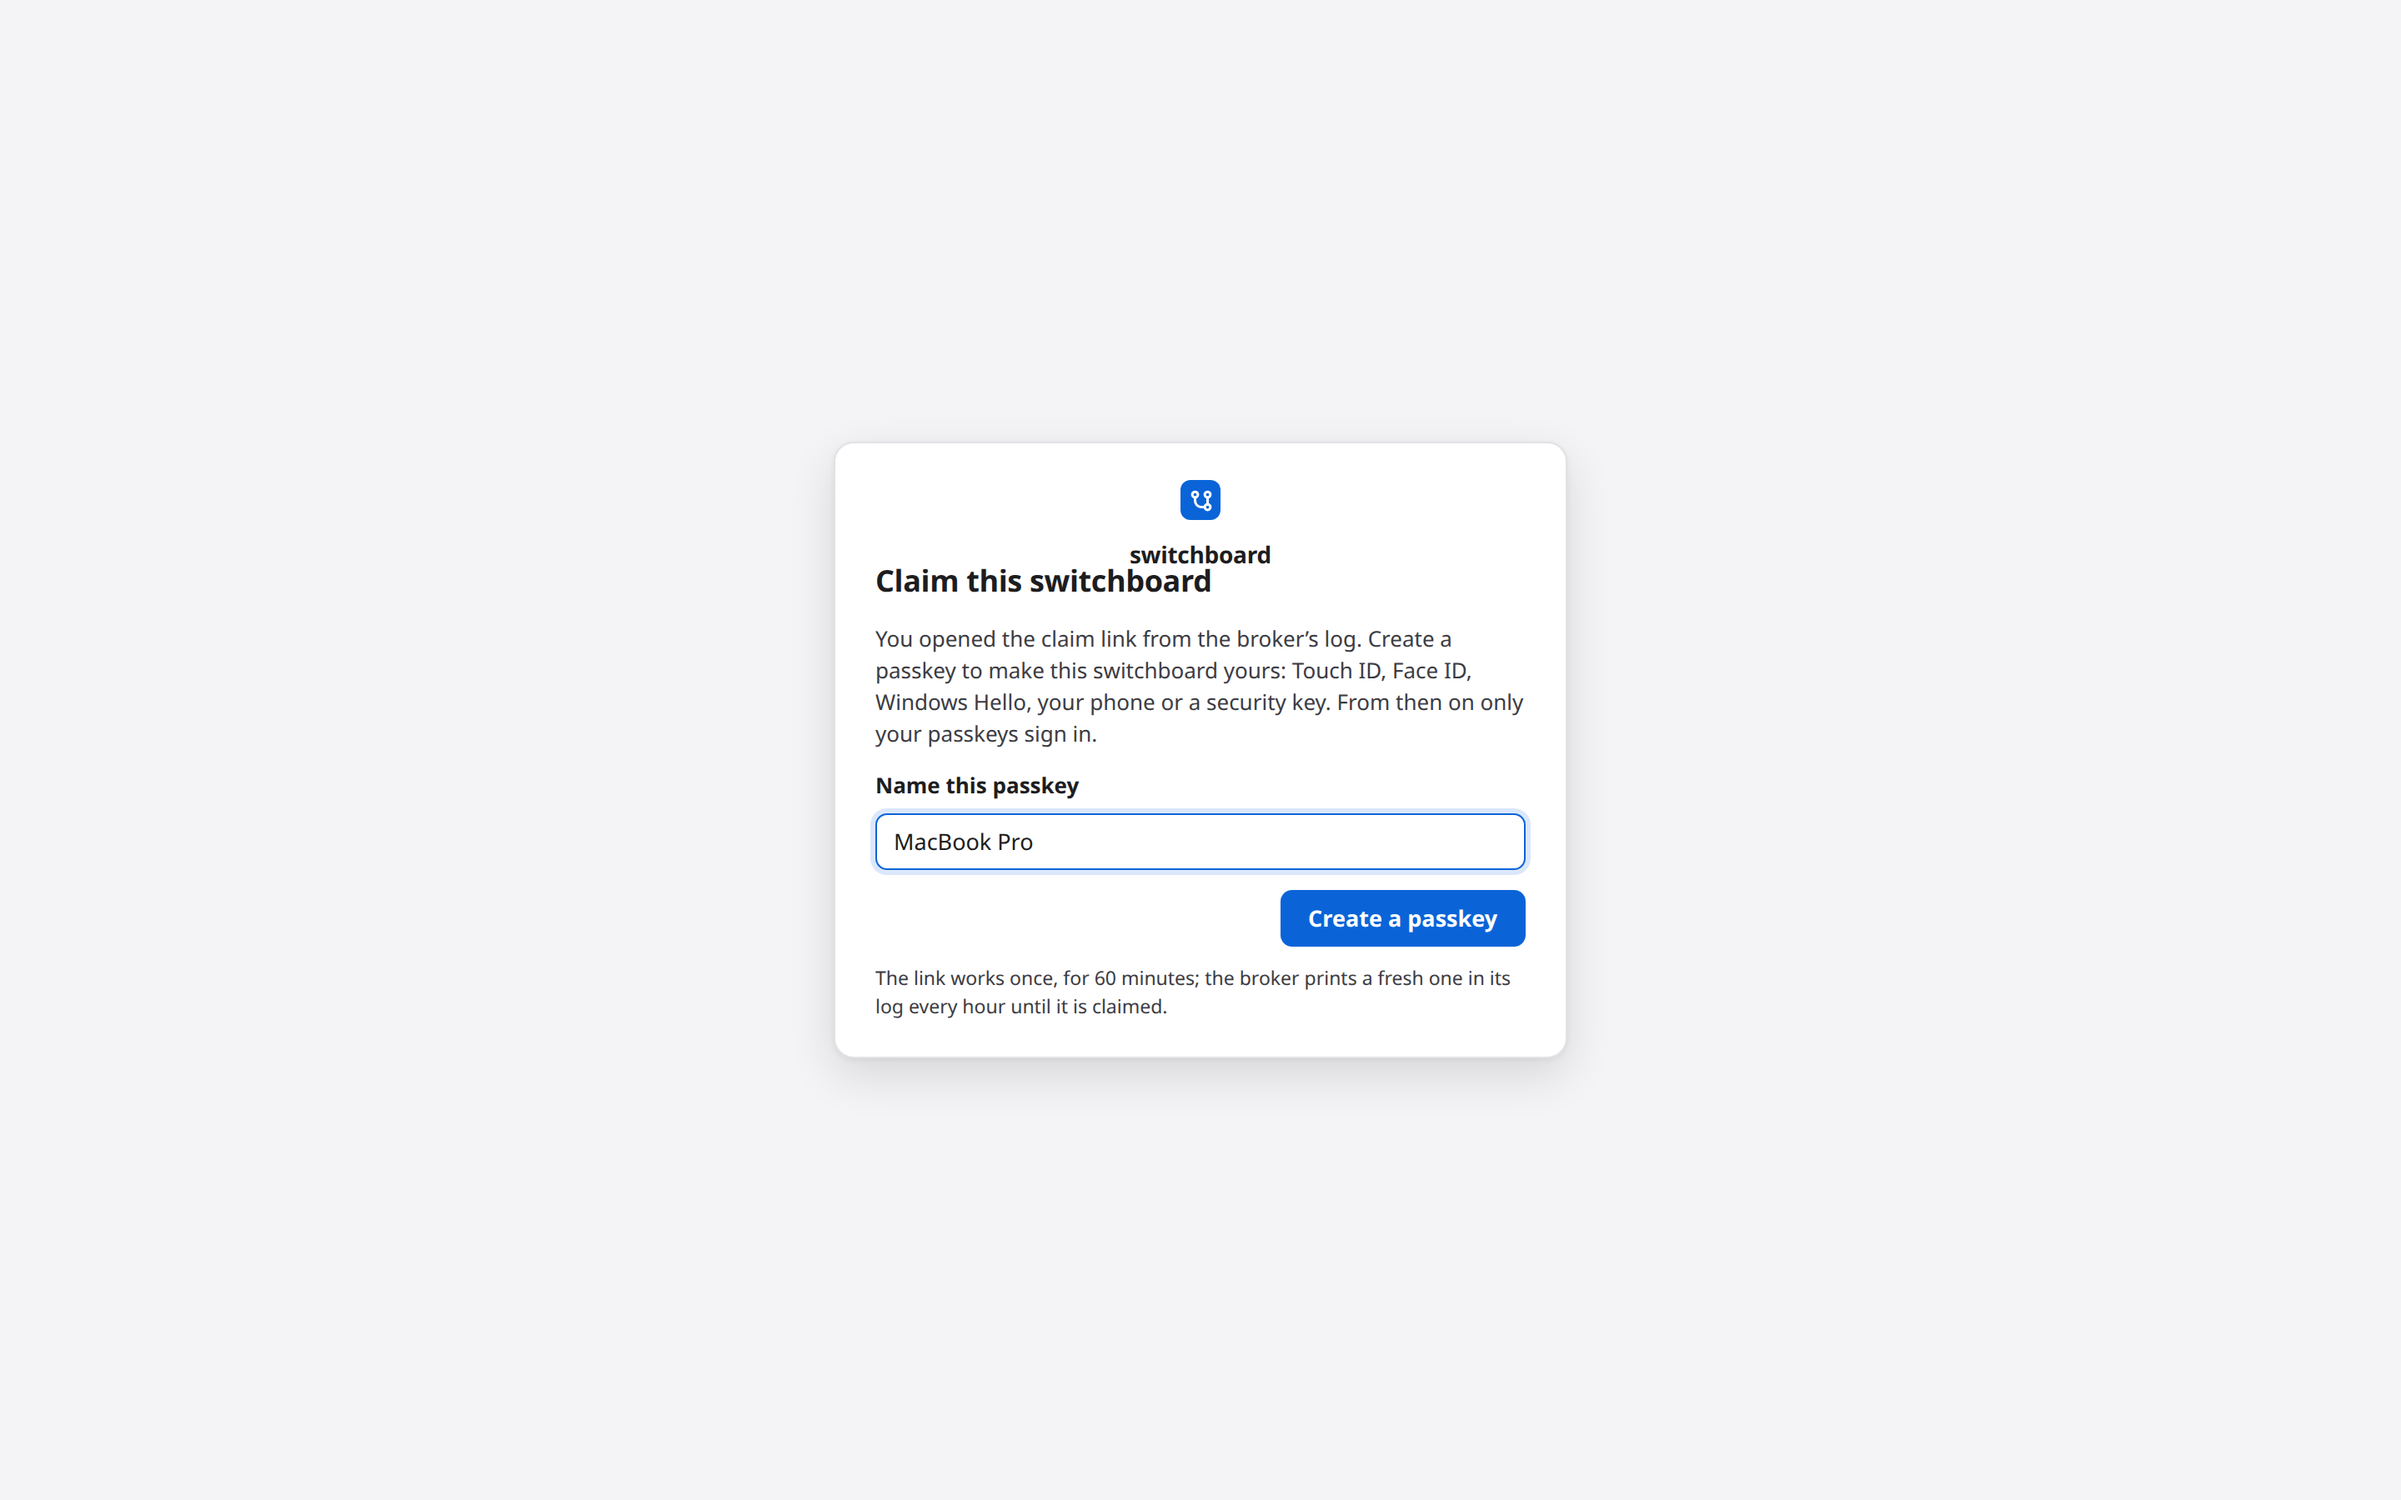
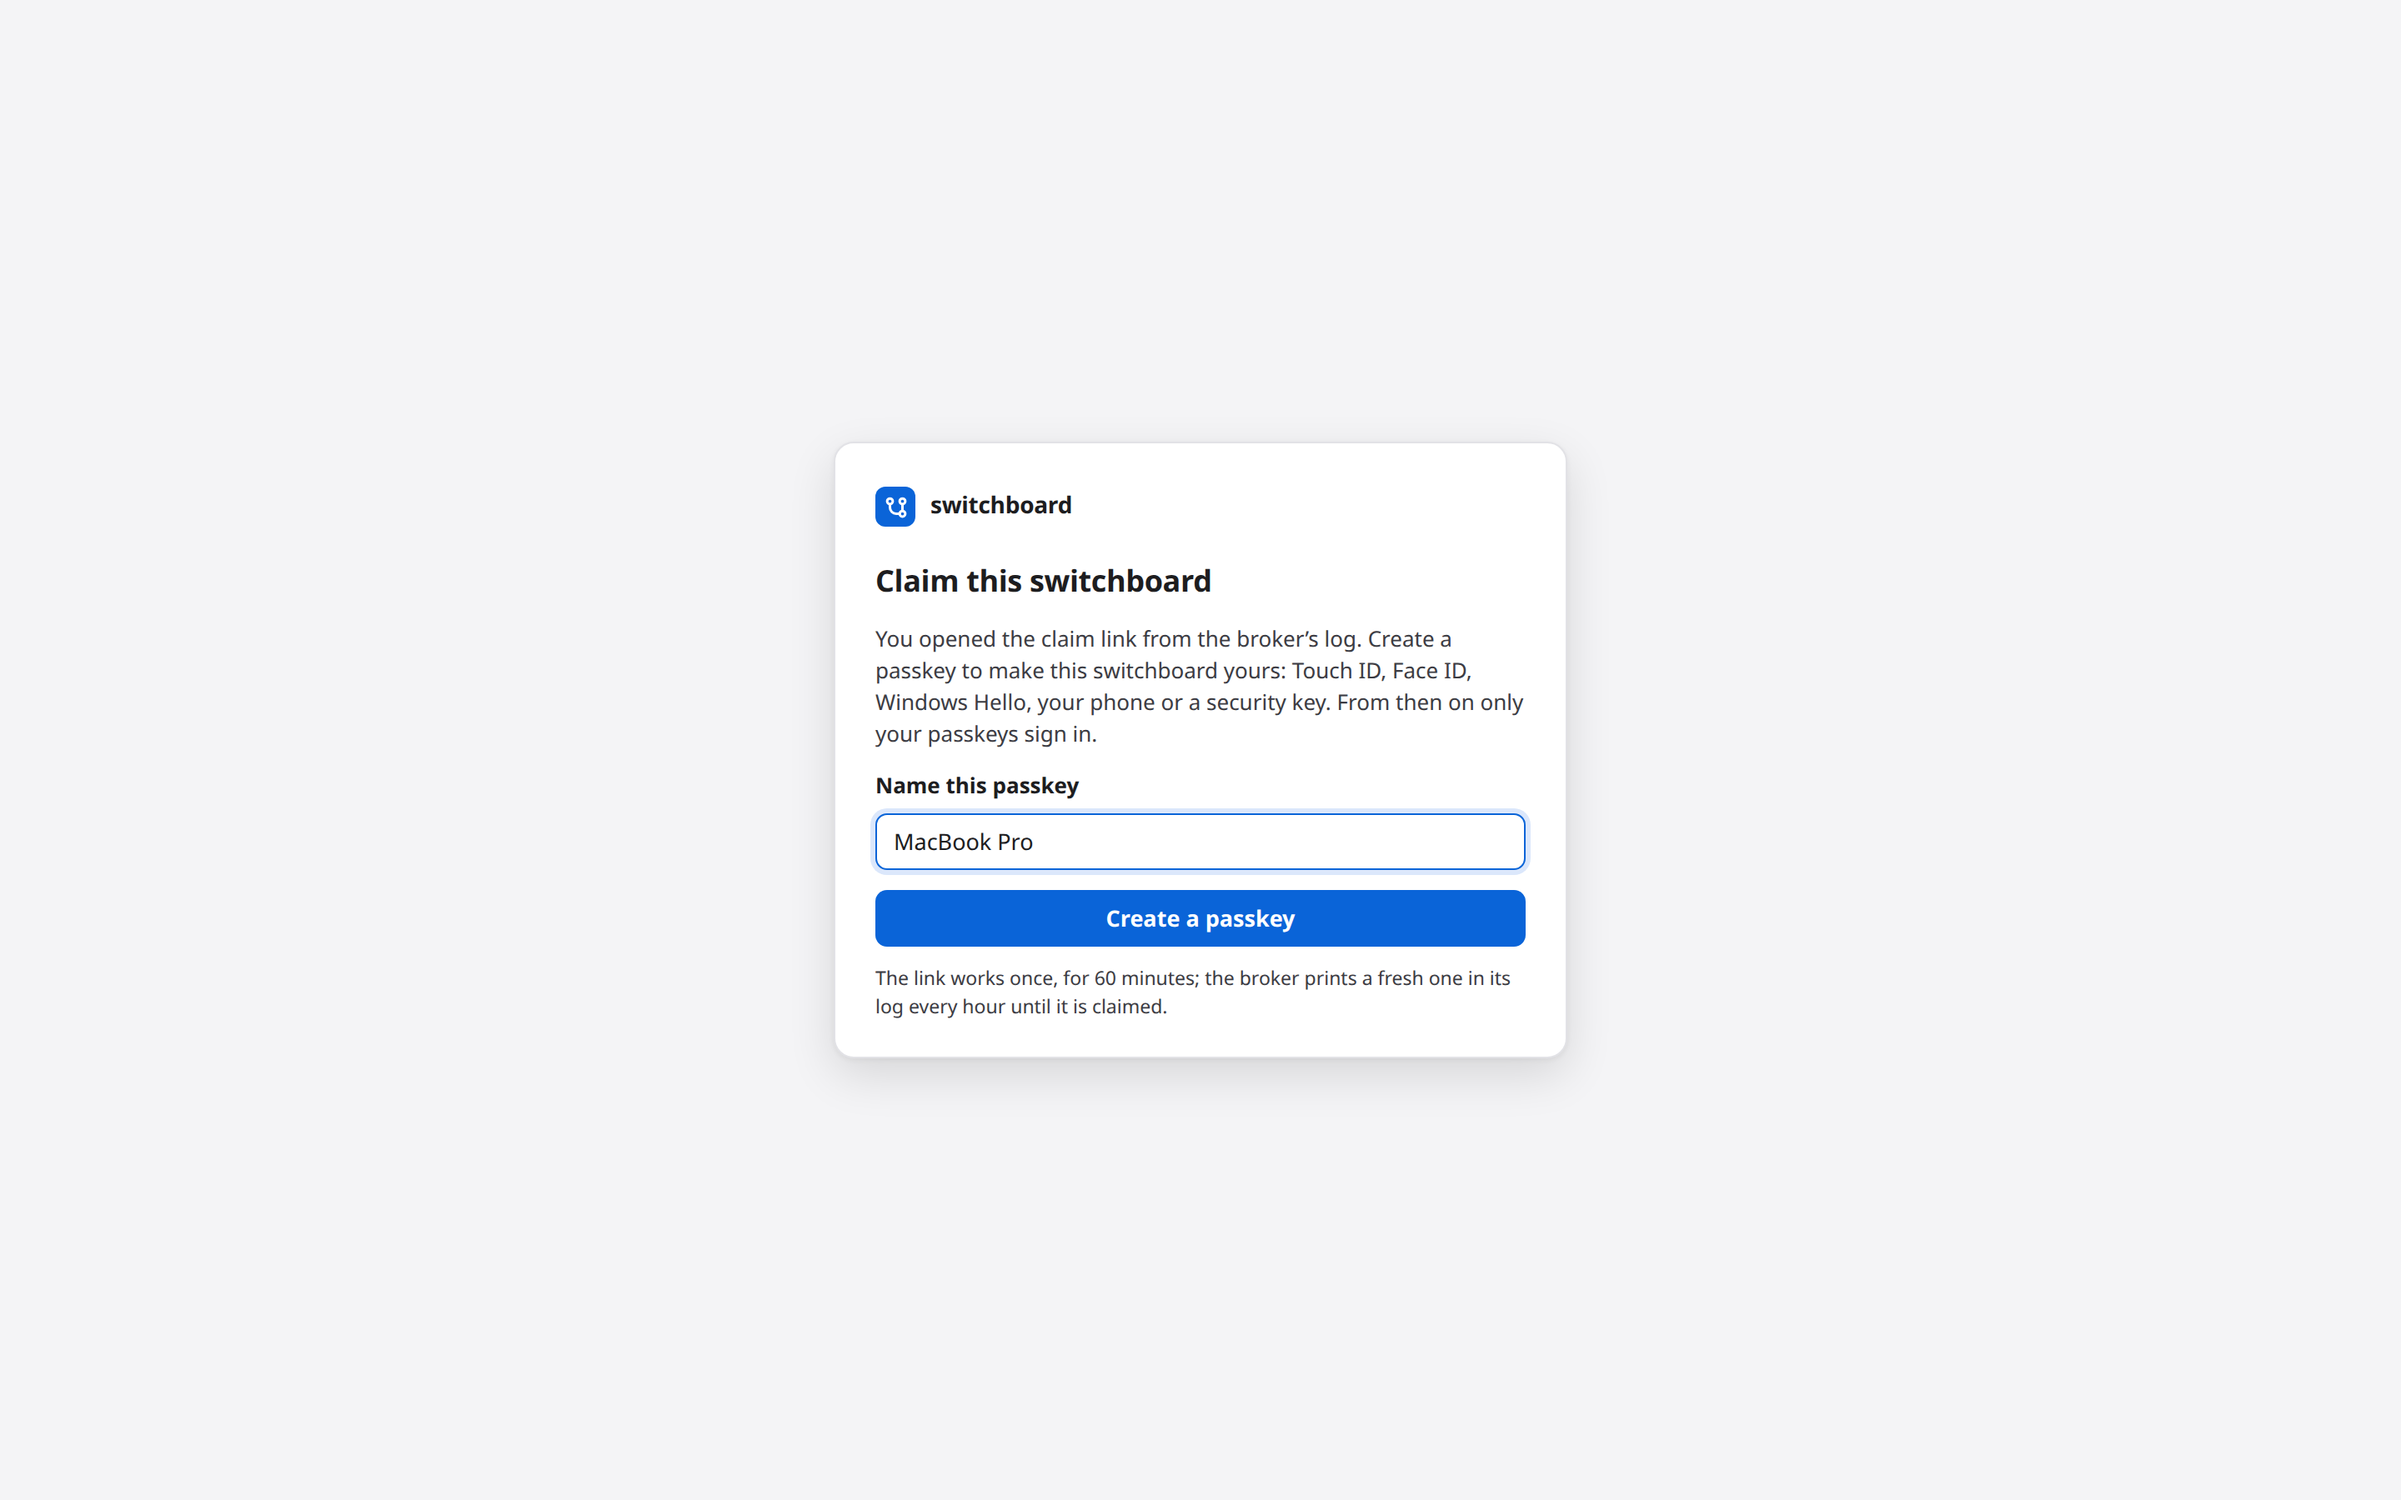
fix(web): the passkey pages' layout: the brand row, full-width actions, the Passkeys sheet as cards
The variants' spacing rule also matched the brand row and stacked the logo over the title;
it now has its own class. The claim and passkey sign-in actions span the card, the Passkeys
sheet uses cards like the Remote machines sheet with the name and Add on one row, and the e2e
test adds the security key with the phone put away (Chromium may pick either one).

Changed region(s): [[0.3438, 0.5911, 0.625, 0.6533], [0.4688, 0.3111, 0.5312, 0.3733], [0.3438, 0.3111, 0.4375, 0.3422]]

diff --git a/src/switchboard/web/static/app.js b/src/switchboard/web/static/app.js
@@ -2049,15 +2049,23 @@
     const body = $('passkeys-body');
     if ($('passkeys-panel').classList.contains('hidden')) return;
     const me = state.me || {};
-    body.replaceChildren();
     const n = me.passkeys || 0;
-    body.append(el('p', null, n ? plural(n, 'passkey', 'passkeys') + ' can sign in here.'
-      : 'No passkey yet: this switchboard is signed in to with `switchboard login`.'));
+    body.replaceChildren();
+
+    // your passkeys, and adding one: a name and the button on one row
+    const card = el('div', 'passkey-card');
+    const head = el('div', 'passkey-head');
+    head.append(icon('key'), el('span', 'passkey-title', 'Your passkeys'),
+      el('span', 'passkey-count', n ? plural(n, 'passkey', 'passkeys') : 'none yet'));
+    card.append(head);
+    card.append(el('p', 'fine', n ? 'Any of them signs this switchboard in.'
+      : 'None yet: this switchboard is signed in to with `switchboard login`.'));
     const form = el('form', 'passkey-add');
     form.id = 'passkey-add';
     form.setAttribute('autocomplete', 'off');
     const label = el('label', null, 'Name the new passkey');
     label.htmlFor = 'passkey-name';
+    const row = el('div', 'passkey-row');
     const input = el('input');
     input.type = 'text';
     input.id = 'passkey-name';
@@ -2065,27 +2073,36 @@
     input.maxLength = 40;
     input.spellcheck = false;
     input.placeholder = 'phone, security key, this Mac';
-    const add = btn('btn btn-primary', state.passkeyBusy ? 'Waiting for your passkey…' : 'Add a passkey');
+    const add = btn('btn btn-primary', state.passkeyBusy ? 'Waiting…' : 'Add a passkey');
     add.type = 'submit';
     add.id = 'passkey-add-btn';
     add.disabled = state.passkeyBusy || !me.hosted;
     add.title = me.fresh ? 'register a new passkey for this switchboard'
       : 'asks for one of your passkeys first, then registers the new one';
-    form.append(label, input, add);
+    row.append(input, add);
+    form.append(label, row);
     form.addEventListener('submit', function (ev) {
       ev.preventDefault();
       addPasskey((input.value || '').trim() || 'passkey');
     });
-    body.append(form);
+    card.append(form);
     const out = el('div', 'fine passkey-result');
     out.id = 'passkey-result';
-    body.append(out);
-    const all = el('div', 'passkey-all');
-    all.append(el('p', 'fine', 'Signed in somewhere you no longer trust? Every browser is signed out; your passkeys stay.'));
+    card.append(out);
+    body.append(card);
+
+    // every browser signed out; the passkeys stay
+    const all = el('div', 'passkey-card');
+    const head2 = el('div', 'passkey-head');
+    head2.append(icon('logout'), el('span', 'passkey-title', 'Sign out everywhere'));
+    all.append(head2);
+    all.append(el('p', 'fine', 'Signed in somewhere you no longer trust? Every browser is signed out, this one included; your passkeys stay.'));
+    const btns = el('div', 'dialog-buttons');
     const so = btn('btn', 'Sign out everywhere');
     so.id = 'logout-all';
     so.addEventListener('click', logoutEverywhere);
-    all.append(so);
+    btns.append(so);
+    all.append(btns);
     body.append(all);
   }
 

diff --git a/src/switchboard/web/static/style.css b/src/switchboard/web/static/style.css
@@ -1760,9 +1760,12 @@ body.login {
   border-radius: 4px;
   background: var(--code-bg);
 }
-.login-card > div { display: flex; flex-direction: column; gap: 12px; }  /* the sign-in page's variants */
+/* the sign-in page's variants (login.html: the terminal, a passkey, the claim), spaced like the card */
+.login-variant { display: flex; flex-direction: column; gap: 12px; }
 .login-actions { display: flex; justify-content: flex-end; gap: 8px; margin-top: 4px; }
 .login-actions .btn, .login-actions .btn-primary { height: 34px; padding: 0 16px; font-size: 13.5px; }
+/* the passkey pages' actions span the card: one button its full width, two sharing it evenly */
+.login-actions.stretch > * { flex: 1 1 0; min-width: 0; }
 .login-error { margin: 0; color: var(--danger); font-weight: 500; }
 .login-error:empty { display: none; }
 /* the claim page (setup.html, §31.3): one step at a time, a name for the passkey */
@@ -1780,13 +1783,29 @@ body.login {
   font-size: 13.5px;
 }
 .setup-form input:focus, .passkey-add input:focus { outline: none; border-color: var(--accent); box-shadow: 0 0 0 3px var(--focus); }
-/* the passkeys sheet (index.html, §31.4) */
-.passkey-add { display: flex; flex-direction: column; gap: 8px; margin: 4px 0; }
-.passkey-add .btn-primary { align-self: flex-start; }
+.passkey-add input { height: 32px; }
+/* the Passkeys sheet (index.html, §31.4): cards like the Remote machines sheet's */
+.passkey-card {
+  display: flex;
+  flex-direction: column;
+  gap: 8px;
+  padding: 12px 14px;
+  border: 1px solid var(--side-border);
+  border-radius: 8px;
+  background: var(--bg);
+}
+.passkey-card + .passkey-card { margin-top: 10px; }
+.passkey-card > p { margin: 0; }
+.passkey-head { display: flex; align-items: center; gap: 8px; }
+.passkey-head .ic { width: 15px; height: 15px; color: var(--muted); flex-shrink: 0; }
+.passkey-title { flex: 1; min-width: 0; font-size: 14px; font-weight: 600; }
+.passkey-count { flex-shrink: 0; font-size: 11.5px; color: var(--muted-2); }
+.passkey-add { display: flex; flex-direction: column; gap: 6px; margin: 0; }
+.passkey-row { display: flex; align-items: center; gap: 8px; }
+.passkey-row input { flex: 1; min-width: 0; height: 32px; }
+.passkey-row .btn-primary { flex-shrink: 0; }
 .passkey-result.bad { color: var(--danger); font-weight: 500; }
 .passkey-result:empty { display: none; }
-.passkey-all { display: flex; flex-direction: column; gap: 8px; padding-top: 10px; border-top: 1px solid var(--line); }
-.passkey-all .btn { align-self: flex-start; }
 
 /* ==== 15. Narrow widths (spec 1.9) =================================================== */
 

diff --git a/src/switchboard/web/static/login.html b/src/switchboard/web/static/login.html
@@ -34,7 +34,7 @@
   <h1 id="login-title">Sign in this browser</h1>
 
   <!-- the desktop (and a hosted broker before login.js has asked): the one-time link -->
-  <div id="login-cli">
+  <div class="login-variant" id="login-cli">
     <p>This browser isn&rsquo;t signed in. In your own terminal, run:</p>
     <pre class="login-cmd"><code>switchboard login</code></pre>
     <p>and open the link it prints. Each link works once, for 5 minutes.</p>
@@ -45,17 +45,17 @@
   </div>
 
   <!-- a hosted broker whose owner has a passkey -->
-  <div class="hidden" id="login-passkey">
+  <div class="login-variant hidden" id="login-passkey">
     <p>This browser isn&rsquo;t signed in. Use one of your passkeys: Touch&nbsp;ID, Face&nbsp;ID,
       Windows&nbsp;Hello, your phone or a security key.</p>
-    <div class="login-actions">
+    <div class="login-actions stretch">
       <button type="button" class="btn-primary" id="passkey-btn">Sign in with a passkey</button>
     </div>
     <p class="fine">On another device, the browser offers a QR code to use the passkey on your phone.</p>
   </div>
 
   <!-- a hosted broker nobody has claimed yet -->
-  <div class="hidden" id="login-claim">
+  <div class="login-variant hidden" id="login-claim">
     <p>This switchboard hasn&rsquo;t been claimed yet. Open the claim link from the broker&rsquo;s log
       (your deploy tool&rsquo;s logs view, Render&rsquo;s Logs tab, <code>docker compose logs</code>) and
       create your first passkey there.</p>

diff --git a/src/switchboard/web/static/setup.html b/src/switchboard/web/static/setup.html
@@ -41,7 +41,7 @@
       <label for="claim-name">Name this passkey</label>
       <input type="text" id="claim-name" name="name" maxlength="40" autocomplete="off" spellcheck="false"
              placeholder="MacBook Pro">
-      <div class="login-actions">
+      <div class="login-actions stretch">
         <button type="submit" class="btn-primary" id="claim-btn">Create a passkey</button>
       </div>
     </form>
@@ -59,7 +59,7 @@
       <label for="backup-name">Name the backup</label>
       <input type="text" id="backup-name" name="name" maxlength="40" autocomplete="off" spellcheck="false"
              value="phone or security key">
-      <div class="login-actions">
+      <div class="login-actions stretch">
         <a class="btn" id="skip-btn" href="/">Skip for now</a>
         <button type="submit" class="btn-primary" id="backup-btn">Add a backup passkey</button>
       </div>
@@ -74,7 +74,7 @@
     <p class="fine">If the newest link says it was already used and that wasn&rsquo;t you, someone who can
       read the log claimed it first. Set <code>SWITCHBOARD_RESET_OWNER</code> to a new value and restart
       the broker: it forgets the owner and prints a fresh link (docs/DEPLOY.md).</p>
-    <div class="login-actions"><a class="btn-primary" href="/">Go to the sign-in page</a></div>
+    <div class="login-actions stretch"><a class="btn-primary" href="/">Go to the sign-in page</a></div>
   </section>
 
   <!-- no WebAuthn here -->

diff --git a/tests/e2e/test_passkeys_ui.py b/tests/e2e/test_passkeys_ui.py
@@ -74,6 +74,19 @@ class Devices:
     def credentials(self, authenticator_id: str) -> list[dict[str, Any]]:
         return self.cdp.send("WebAuthn.getCredentials", {"authenticatorId": authenticator_id})["credentials"]
 
+    def put_away(self, authenticator_id: str) -> list[dict[str, Any]]:
+        """Detach a device, keeping its passkeys: with two attached, Chromium may pick either one."""
+        creds = self.credentials(authenticator_id)
+        self.remove(authenticator_id)
+        return creds
+
+    def bring_back(self, creds: list[dict[str, Any]], transport: str = "internal") -> str:
+        """Attach a device again with the passkeys ``put_away`` kept."""
+        aid = self.add(transport)
+        for c in creds:
+            self.cdp.send("WebAuthn.addCredential", {"authenticatorId": aid, "credential": c})
+        return aid
+
 
 def open_link(page: Page, url: str) -> None:
     """Open a claim link as a fresh navigation (setup.js leaves the page at /setup, so a second
@@ -133,17 +146,21 @@ def test_claim_backup_sheet_sign_out_and_sign_in(ui: UI, hosted: InProcBroker) -
     assert [p.name for p in st.store.passkeys()] == ["MacBook Pro", "iPhone"]
     assert len(devices.credentials(phone)) == 1
 
-    # the passkeys sheet: the count, Add a passkey (fresh from the claim: no check asked)
+    # the passkeys sheet: the count, Add a passkey (fresh from the claim: no check asked), on a
+    # security key while the phone is put away (with both attached, Chromium may pick the phone,
+    # whose passkey is excluded)
     expect(page.locator("#passkeys")).to_be_visible()
     page.click("#passkeys")
     expect(page.locator("#passkeys-panel")).to_be_visible()
-    expect(page.locator("#passkeys-body")).to_contain_text("2 passkeys can sign in here.")
+    expect(page.locator("#passkeys-body .passkey-count")).to_have_text("2 passkeys")
+    phone_creds = devices.put_away(phone)
     key = devices.add("usb")
     page.fill("#passkey-name", "YubiKey")
     page.click("#passkey-add-btn")
     expect(page.locator("#passkey-result")).to_have_text('added "YubiKey"')
-    expect(page.locator("#passkeys-body")).to_contain_text("3 passkeys can sign in here.")
+    expect(page.locator("#passkeys-body .passkey-count")).to_have_text("3 passkeys")
     devices.remove(key)  # the key is unplugged again
+    phone = devices.bring_back(phone_creds)
     page.keyboard.press("Escape")
     expect(page.locator("#passkeys-panel")).to_be_hidden()
 

diff --git a/docs/media/ui_shots.py b/docs/media/ui_shots.py
@@ -308,6 +308,7 @@ def shoot_hosted(browser: Any, out: Path, world: Any) -> None:
         page.click("#passkeys")
         expect(page.locator("#passkeys-panel")).to_be_visible()
         page.fill("#passkey-name", "iPhone")
+        page.mouse.move(1, 1)  # off the key button, so it isn't drawn hovered
         shot(page, out, "passkeys-light.png")
         page.emulate_media(color_scheme="dark")
         shot(page, out, "passkeys-dark.png")

diff --git a/tests/ui_world.py b/tests/ui_world.py
@@ -232,6 +232,7 @@ class HostedWorld:
         self.b = InProcBroker(self.home, web_origin=lambda port: WebOrigin.parse(f"http://sb.localhost:{port}")).start()
         b = self.b
         b.on_loop(lambda: b.state.service.create_room("#build"))  # the broker answers only to its public host
+        not_test_mode(b)  # its claim link is written already; no TEST MODE band in the pictures
         return self
 
     def stop(self) -> None:
